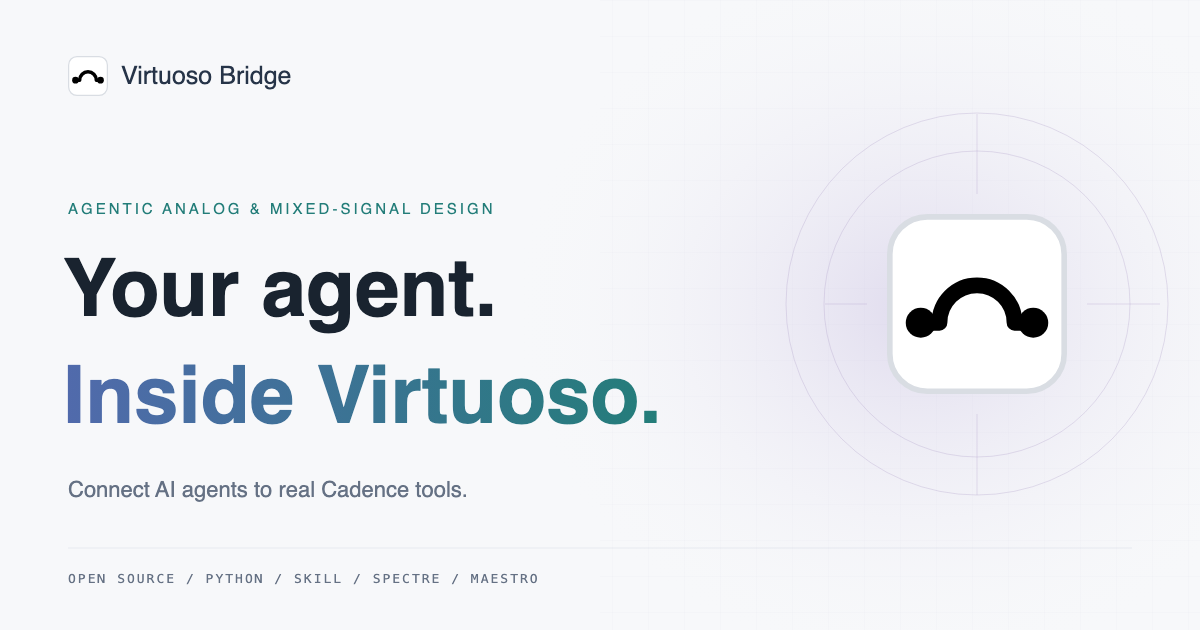
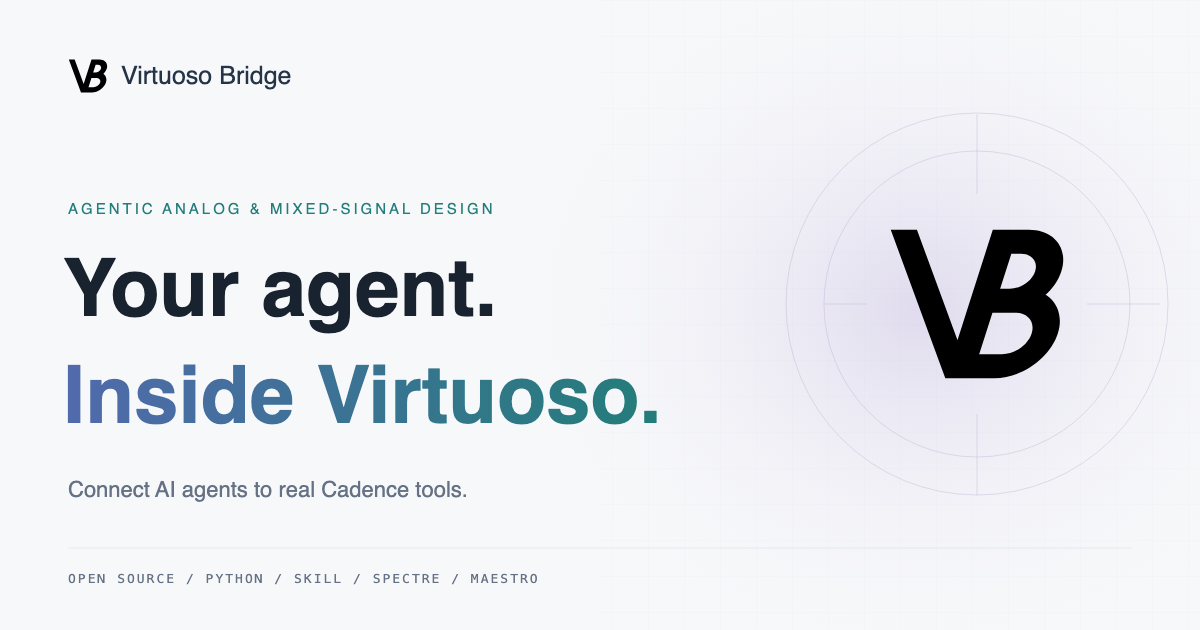
feat(site): replace the wire-hop mark with an italic VB monogram
The V's right arm doubles as the B's slanted stem: one stroke shared by
both sides. The mark is frameless and black on white; the favicon turns
white in dark browser tabs, while the header uses a fixed black copy
(assets/mark.svg) so it stays visible on the light page. PNG icons and
the social card are regenerated, and icon URLs get a new cache key.

Changed region(s): [[0.74, 0.3619, 0.8942, 0.6333], [0.0617, 0.0905, 0.0925, 0.1508]]

diff --git a/docs/privacy/index.html b/docs/privacy/index.html
@@ -14,12 +14,12 @@
     <meta property="og:url" content="https://virtuoso-bridge.tokenzhang.com/privacy/" />
     <meta
       property="og:image"
-      content="https://virtuoso-bridge.tokenzhang.com/assets/social-card.png?v=20261012-light"
+      content="https://virtuoso-bridge.tokenzhang.com/assets/social-card.png?v=20261012-vb"
     />
     <meta name="twitter:card" content="summary_large_image" />
     <link rel="canonical" href="https://virtuoso-bridge.tokenzhang.com/privacy/" />
-    <link rel="icon" href="/favicon.svg?v=20261012-light" type="image/svg+xml" />
-    <link rel="apple-touch-icon" href="/apple-touch-icon.png?v=20261012-light" />
+    <link rel="icon" href="/favicon.svg?v=20261012-vb" type="image/svg+xml" />
+    <link rel="apple-touch-icon" href="/apple-touch-icon.png?v=20261012-vb" />
     <script>
       document.documentElement.classList.add("js");
       try {
@@ -50,7 +50,7 @@
             data-internal
             aria-label="Virtuoso Bridge home"
             ><img
-              src="/favicon.svg?v=20261012-light"
+              src="/assets/mark.svg?v=20261012-vb"
               width="24"
               height="24"
               alt=""

diff --git a/website/chrome.test.ts b/website/chrome.test.ts
@@ -53,13 +53,18 @@ describe("shared light website chrome", () => {
     );
   });
 
-  it("shares the new circuit-bridge mark with the social preview", () => {
-    const logo = read("favicon.svg");
-    const social = read("assets/social-card.svg");
-    expect(logo).toContain('fill="#fff"');
-    expect(logo).not.toContain("rotate(");
-    for (const match of logo.matchAll(/<path\s+d="([^"]+)"/g))
-      expect(social).toContain(match[1]);
+  it("uses one frameless VB mark for the favicon, header and social preview", () => {
+    const paths = (svg: string) =>
+      [...svg.matchAll(/\sd="([^"]+)"/g)].map((match) => match[1]);
+    const [mark] = paths(read("assets/mark.svg"));
+    const favicon = read("favicon.svg");
+    expect(mark).toBeTruthy();
+    expect(paths(favicon)).toEqual([mark]);
+    expect(favicon).not.toContain("<rect");
+    expect(favicon).toContain("prefers-color-scheme: dark");
+    expect(read("assets/social-card.svg")).toContain(`d="${mark}"`);
+    for (const page of pages)
+      expect(page).toContain('src="/assets/mark.svg?v=20261012-vb"');
   });
 
   it("uses a single borderless text language switch on every public page", () => {

diff --git a/docs/index.html b/docs/index.html
@@ -14,12 +14,12 @@
     <meta property="og:url" content="https://virtuoso-bridge.tokenzhang.com/" />
     <meta
       property="og:image"
-      content="https://virtuoso-bridge.tokenzhang.com/assets/social-card.png?v=20261012-light"
+      content="https://virtuoso-bridge.tokenzhang.com/assets/social-card.png?v=20261012-vb"
     />
     <meta name="twitter:card" content="summary_large_image" />
     <link rel="canonical" href="https://virtuoso-bridge.tokenzhang.com/" />
-    <link rel="icon" href="/favicon.svg?v=20261012-light" type="image/svg+xml" />
-    <link rel="apple-touch-icon" href="/apple-touch-icon.png?v=20261012-light" />
+    <link rel="icon" href="/favicon.svg?v=20261012-vb" type="image/svg+xml" />
+    <link rel="apple-touch-icon" href="/apple-touch-icon.png?v=20261012-vb" />
     <script>
       document.documentElement.classList.add("js");
       try {
@@ -49,7 +49,7 @@
             data-internal
             aria-label="Virtuoso Bridge home"
             ><img
-              src="/favicon.svg?v=20261012-light"
+              src="/assets/mark.svg?v=20261012-vb"
               width="24"
               height="24"
               alt=""

diff --git a/docs/analytics/index.html b/docs/analytics/index.html
@@ -4,7 +4,7 @@
     <meta charset="utf-8" />
     <link
       rel="apple-touch-icon"
-      href="/apple-touch-icon.png?v=20261012-light"
+      href="/apple-touch-icon.png?v=20261012-vb"
     />
     <meta name="viewport" content="width=device-width, initial-scale=1" />
     <meta name="robots" content="noindex, follow" />
@@ -13,7 +13,7 @@
     <link
       rel="icon"
       type="image/svg+xml"
-      href="/favicon.svg?v=20261012-light"
+      href="/favicon.svg?v=20261012-vb"
     />
     <script>
       try {

diff --git a/website/README.md b/website/README.md
@@ -10,7 +10,8 @@ Durable Object storage. It does not connect to Cadence.
 Public pages use a light palette, a compact 48px product header and a quiet
 footer, aligned with Analog Canvas and Analog Design Bench. The shared chrome
 is checked across the landing and privacy pages by `chrome.test.ts`.
-`docs/favicon.svg` is the circuit-bridge mark; the PNG icons and social preview
+`docs/favicon.svg` and `docs/assets/mark.svg` hold the italic VB mark (the favicon
+turns white in dark browser tabs); the PNG icons and social preview
 are derived assets and must be regenerated when the mark changes.
 
 ## Analytics provenance and identity
